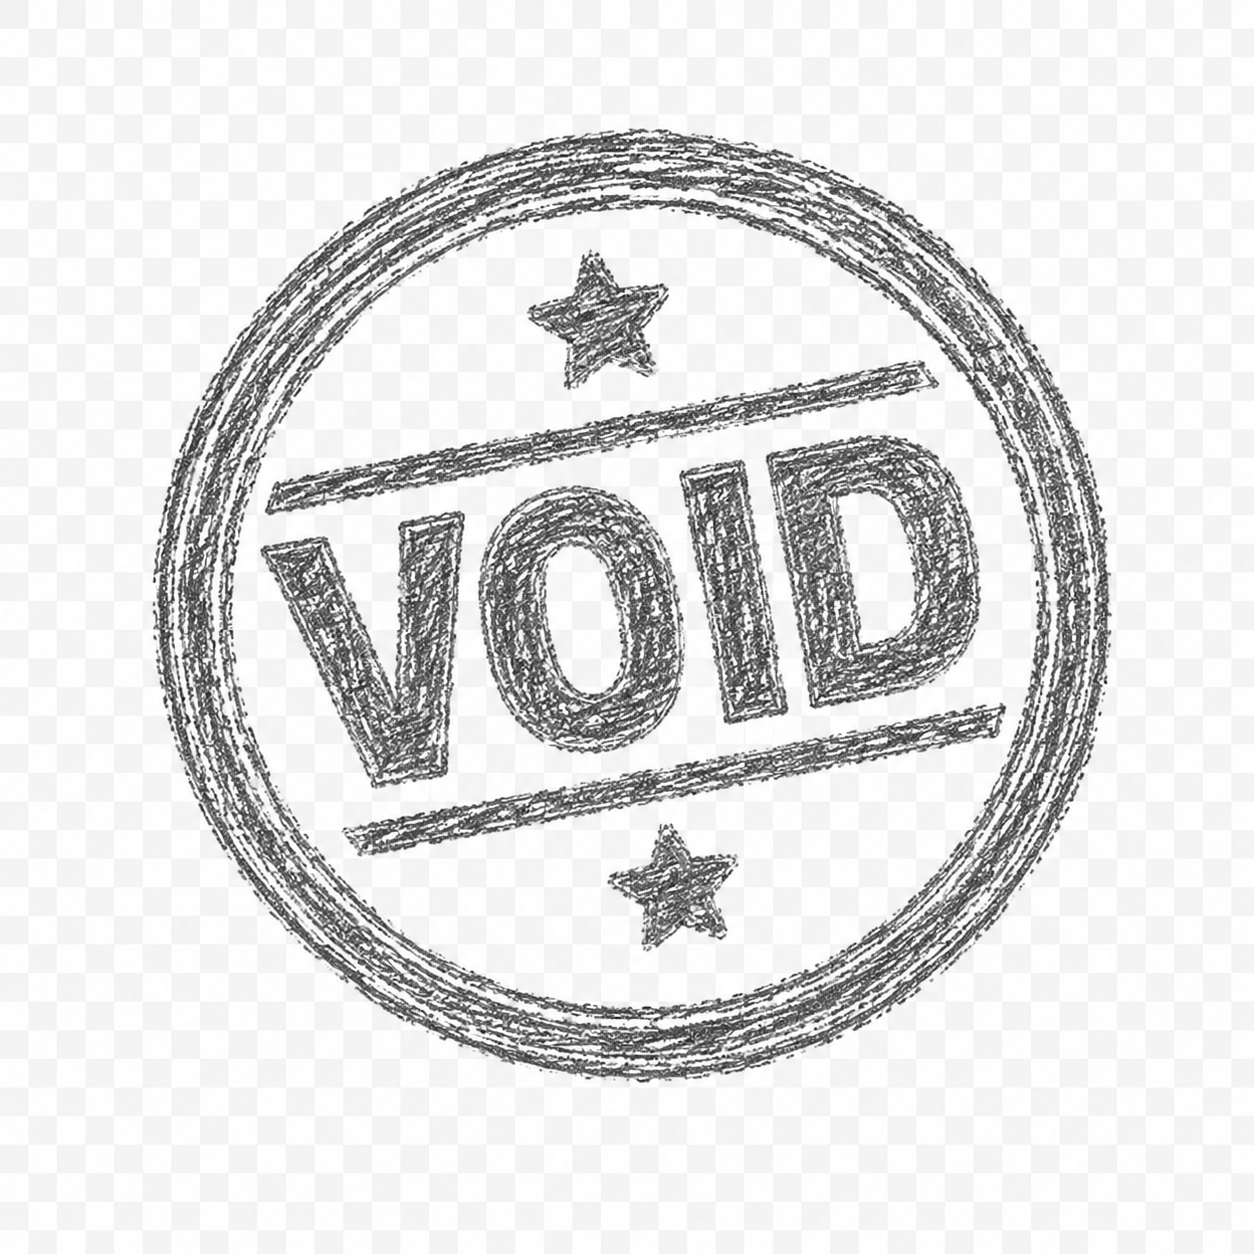
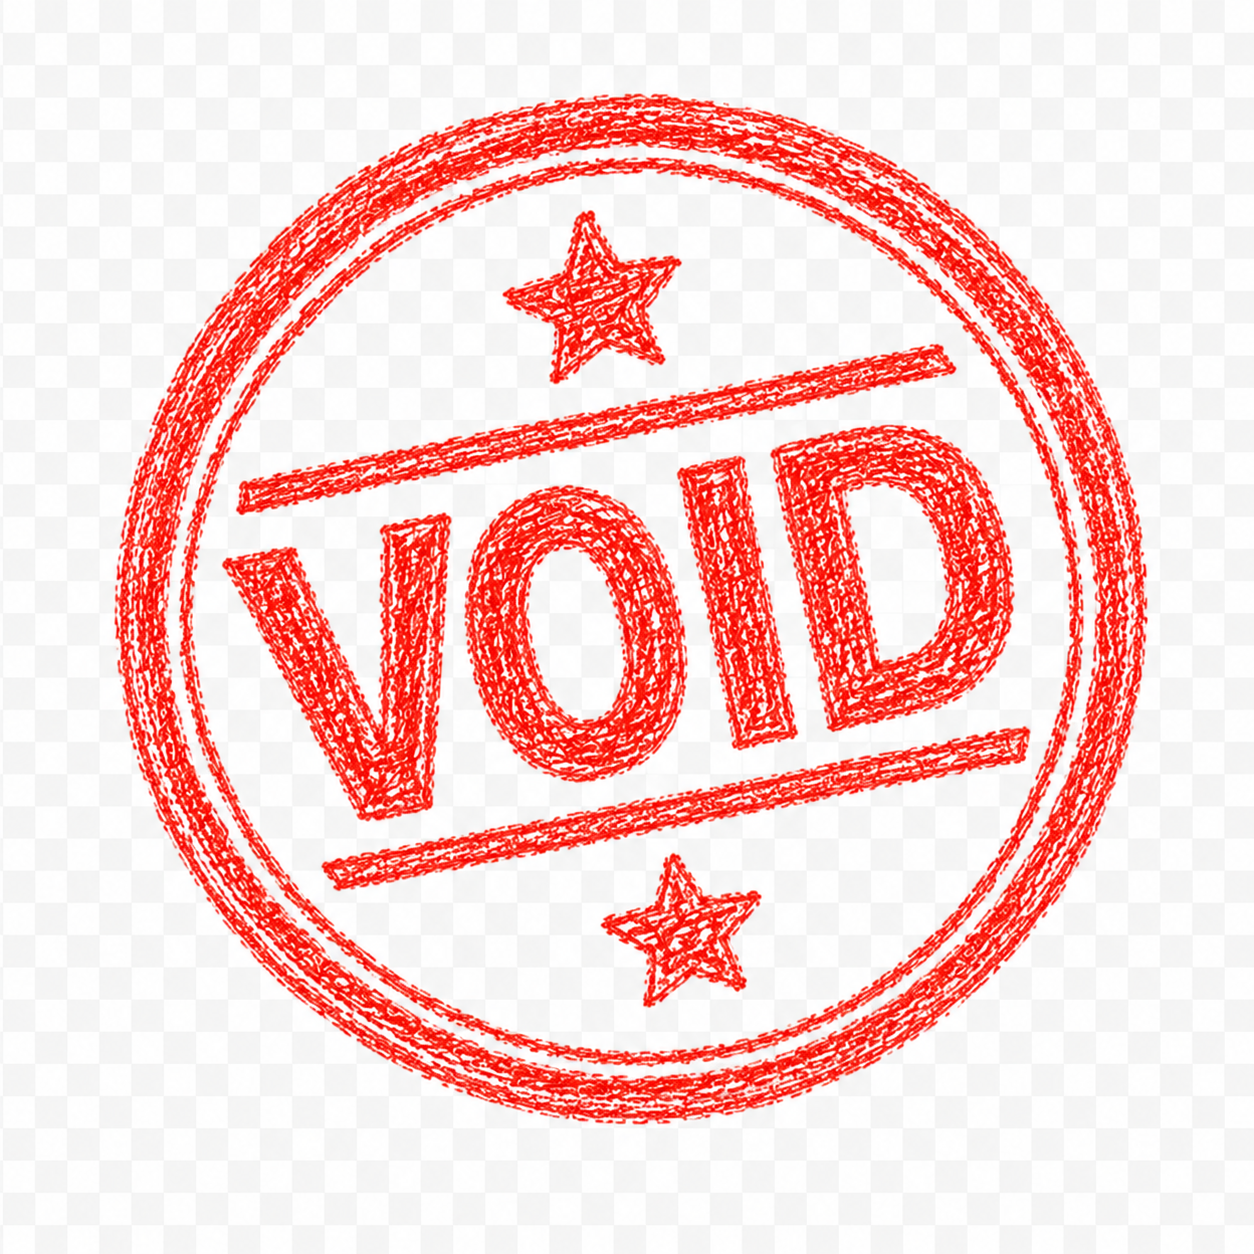
Update audio files and enhance sound effect functions; modify focused card styles

diff --git a/src/lib/soundEffects.js b/src/lib/soundEffects.js
@@ -160,7 +160,9 @@ function playNoise({
   duration = 0.12,
   gain = 0.08,
   filterFrequency = 1200,
+  endFilterFrequency = null,
   filterType = 'highpass',
+  filterQ = 0.7,
 }) {
   const context = getAudioContext();
   if (!context) {
@@ -175,6 +177,13 @@ function playNoise({
   source.buffer = getNoiseBuffer(context);
   filter.type = filterType;
   filter.frequency.setValueAtTime(filterFrequency, startTime);
+  filter.Q.setValueAtTime(filterQ, startTime);
+  if (endFilterFrequency !== null) {
+    filter.frequency.exponentialRampToValueAtTime(
+      Math.max(endFilterFrequency, 1),
+      startTime + duration,
+    );
+  }
   scheduleGain(gainNode, startTime, [
     [0, 0.0001],
     [0.012, gain],
@@ -188,23 +197,37 @@ function playNoise({
   source.stop(startTime + duration + 0.03);
 }
 
+function playPaperSwipeSound({
+  startOffset = 0,
+  duration = 0.18,
+  gain = 0.058,
+} = {}) {
+  playNoise({
+    startOffset,
+    duration,
+    gain,
+    filterFrequency: 3200,
+    endFilterFrequency: 700,
+    filterType: 'bandpass',
+    filterQ: 0.9,
+  });
+  playNoise({
+    startOffset: startOffset + 0.018,
+    duration: duration * 0.72,
+    gain: gain * 0.42,
+    filterFrequency: 5200,
+    endFilterFrequency: 1300,
+    filterType: 'highpass',
+    filterQ: 0.55,
+  });
+}
+
 export function playLeafSwipeSound() {
   if (playNativeSound('leafSwipe')) {
     return;
   }
 
-  playNoise({
-    duration: 0.16,
-    gain: 0.045,
-    filterFrequency: 900,
-  });
-  playTone({
-    frequency: 520,
-    endFrequency: 260,
-    type: 'triangle',
-    duration: 0.14,
-    gain: 0.035,
-  });
+  playPaperSwipeSound();
 }
 
 export function playModeFlipSound() {
@@ -212,20 +235,9 @@ export function playModeFlipSound() {
     return;
   }
 
-  playTone({
-    frequency: 340,
-    endFrequency: 620,
-    type: 'triangle',
-    duration: 0.08,
-    gain: 0.055,
-  });
-  playTone({
-    frequency: 620,
-    endFrequency: 360,
-    type: 'triangle',
-    startOffset: 0.08,
-    duration: 0.1,
-    gain: 0.05,
+  playPaperSwipeSound({
+    duration: 0.16,
+    gain: 0.052,
   });
 }
 

diff --git a/src/styles/appStyles.js b/src/styles/appStyles.js
@@ -684,8 +684,8 @@ export const styles = StyleSheet.create({
     backgroundColor: '#CBD5E1',
   },
   focusedCard: {
-    borderColor: '#475569',
-    borderWidth: 1,
+    borderColor: '#0EA5E9',
+    borderWidth: 2,
     borderStyle: 'solid',
   },
   deleteFocusedCard: {